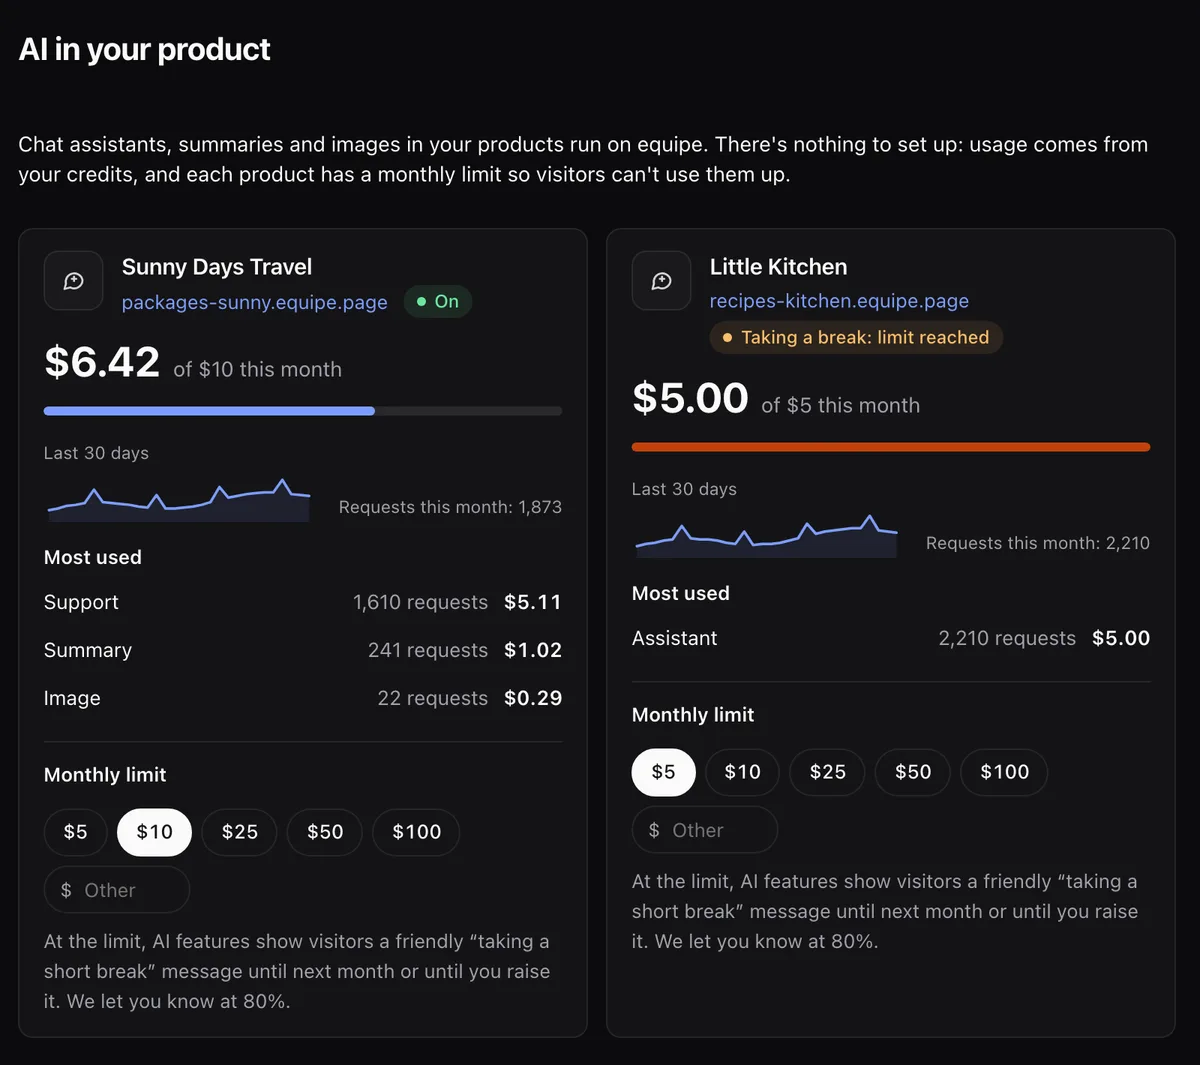
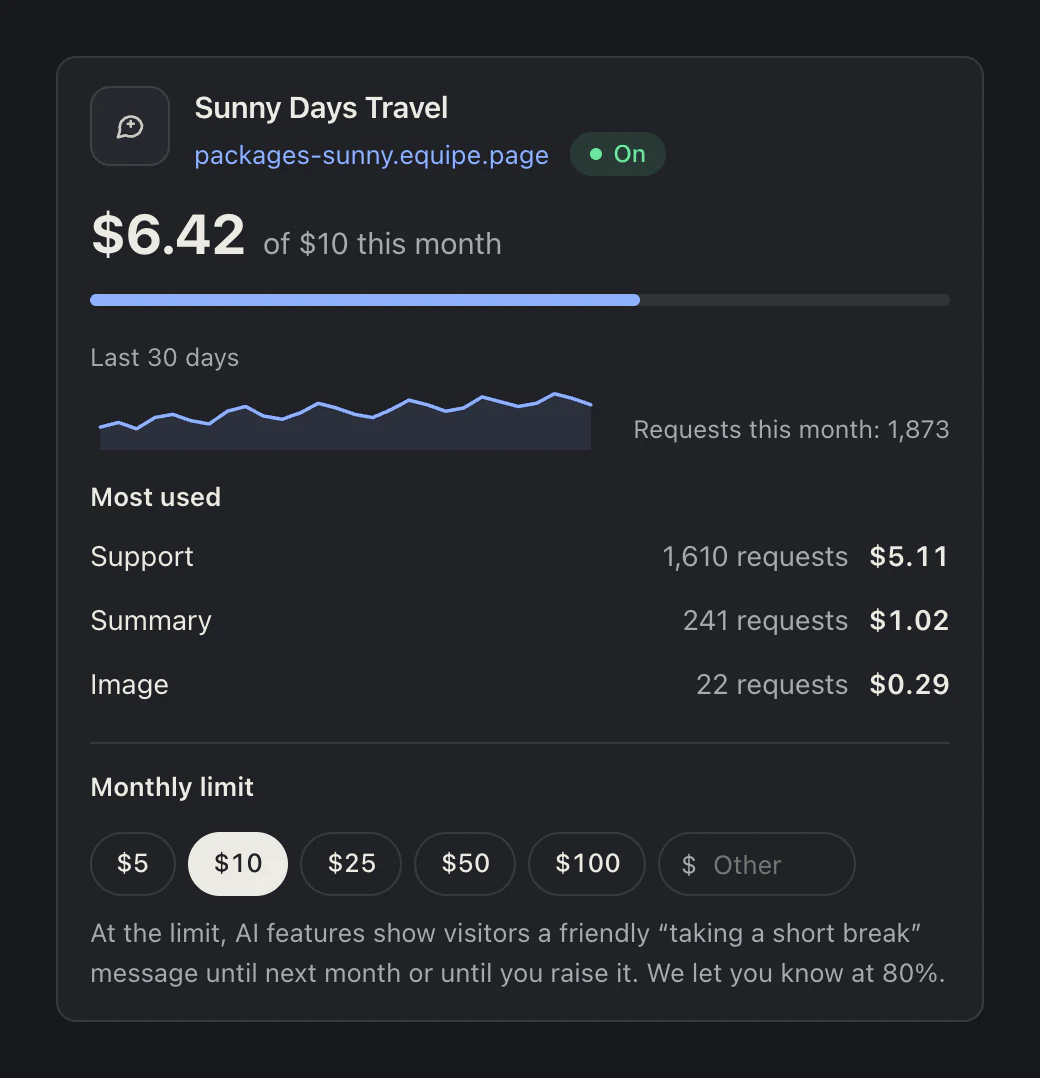
AI features page: crisp, product-accurate pictures. The chat widget re-rendered from its own styles (whole page in frame, no cut-off title; a phone version showing just the open chat), the AI panel rendered from the real team screen code with sample numbers (one product, current light and dark palet

diff --git a/src/data/productai.ts b/src/data/productai.ts
@@ -134,7 +134,7 @@ export const AI_COPY: Record<LocaleCode, AiCopy> = {
         { title: 'One place to look', text: 'Product › AI shows each feature with a small live demo and a rough monthly cost, then what each product spent, a 30-day trend and the most used features.' },
       ],
       models: 'Your team picks the model for each job automatically: a fast, inexpensive one for chat and short summaries, and a stronger one only when the job needs it.',
-      panelAlt: 'The AI panel in equipe: two products with their spending this month against their limits, a 30-day trend, the most used features and the monthly limit choices',
+      panelAlt: 'The AI panel in equipe for one product: what it spent this month against its limit, a 30-day trend, the most used features and the monthly limit choices',
       panelCaption: 'Product › AI in your product, with sample numbers.',
     },
     security: {
@@ -243,7 +243,7 @@ export const AI_COPY: Record<LocaleCode, AiCopy> = {
         { title: '한곳에서 확인해요', text: '제품 › 제품 속 AI에서 기능마다 작은 실시간 데모와 대략적인 월 비용을 보여 주고, 이어서 제품별 사용액, 30일 추이, 많이 쓰인 기능을 보여 줘요.' },
       ],
       models: '팀이 일마다 모델을 자동으로 골라요. 채팅과 짧은 요약에는 빠르고 저렴한 모델을, 꼭 필요할 때만 더 강한 모델을 써요.',
-      panelAlt: 'equipe의 AI 패널: 두 제품의 이번 달 사용액과 한도, 30일 추이, 많이 쓰인 기능, 월 한도 선택지',
+      panelAlt: 'equipe의 AI 패널: 한 제품의 이번 달 사용액과 한도, 30일 추이, 많이 쓰인 기능, 월 한도 선택지',
       panelCaption: '제품 › 제품 속 AI 화면이에요. 숫자는 예시예요.',
     },
     security: {
@@ -352,7 +352,7 @@ export const AI_COPY: Record<LocaleCode, AiCopy> = {
         { title: '確認はひとつの場所で', text: 'プロダクト › プロダクトのAIでは、各機能を小さなライブデモとおおよその月額で表示し、続いてプロダクトごとの利用額、30日間の推移、よく使われている機能を表示します。' },
       ],
       models: 'チームは仕事ごとにモデルを自動で選びます。チャットや短い要約には速くて安価なモデルを、必要なときだけより強力なモデルを使います。',
-      panelAlt: 'equipeのAIパネル：2つのプロダクトの今月の利用額と上限、30日間の推移、よく使われている機能、月の上限の選択肢',
+      panelAlt: 'equipeのAIパネル：1つのプロダクトの今月の利用額と上限、30日間の推移、よく使われている機能、月の上限の選択肢',
       panelCaption: 'プロダクト › プロダクトのAI（数字はサンプルです）。',
     },
     security: {
@@ -461,7 +461,7 @@ export const AI_COPY: Record<LocaleCode, AiCopy> = {
         { title: '一处查看', text: '在“产品 › 产品中的 AI”里，每个功能都有一个小型实时演示和大致的月费用，下面是每个产品的花费、30 天趋势和最常用的功能。' },
       ],
       models: '团队会为每项工作自动选择模型：聊天和简短摘要用快速、便宜的模型，只有工作需要时才用更强的模型。',
-      panelAlt: 'equipe 的 AI 面板：两个产品本月的花费与上限、30 天趋势、最常用的功能和每月上限选项',
+      panelAlt: 'equipe 的 AI 面板：一个产品本月的花费与上限、30 天趋势、最常用的功能和每月上限选项',
       panelCaption: '产品 › 产品中的 AI，数字为示例。',
     },
     security: {
@@ -570,7 +570,7 @@ export const AI_COPY: Record<LocaleCode, AiCopy> = {
         { title: 'Todo en un solo lugar', text: 'Producto › IA en tu producto muestra cada función con una pequeña demo en vivo y un costo mensual aproximado, y luego lo que gastó cada producto, la tendencia de 30 días y las funciones más usadas.' },
       ],
       models: 'Tu equipo elige automáticamente el modelo para cada tarea: uno rápido y económico para el chat y los resúmenes cortos, y uno más potente solo cuando la tarea lo necesita.',
-      panelAlt: 'El panel de IA en equipe: dos productos con su gasto de este mes frente a sus límites, una tendencia de 30 días, las funciones más usadas y las opciones de límite mensual',
+      panelAlt: 'El panel de IA en equipe para un producto: su gasto de este mes frente a su límite, una tendencia de 30 días, las funciones más usadas y las opciones de límite mensual',
       panelCaption: 'Producto › IA en tu producto, con cifras de ejemplo.',
     },
     security: {
@@ -679,7 +679,7 @@ export const AI_COPY: Record<LocaleCode, AiCopy> = {
         { title: 'Tudo num só lugar', text: 'Produto › IA no seu produto mostra cada recurso com uma pequena demonstração ao vivo e um custo mensal aproximado, depois quanto cada produto gastou, a tendência de 30 dias e os recursos mais usados.' },
       ],
       models: 'Seu time escolhe automaticamente o modelo de cada tarefa: um rápido e barato para chat e resumos curtos, e um mais forte só quando a tarefa pede.',
-      panelAlt: 'O painel de IA no equipe: dois produtos com o gasto deste mês em relação aos limites, uma tendência de 30 dias, os recursos mais usados e as opções de limite mensal',
+      panelAlt: 'O painel de IA no equipe para um produto: o gasto deste mês em relação ao limite, uma tendência de 30 dias, os recursos mais usados e as opções de limite mensal',
       panelCaption: 'Produto › IA no seu produto, com números de exemplo.',
     },
     security: {
@@ -788,7 +788,7 @@ export const AI_COPY: Record<LocaleCode, AiCopy> = {
         { title: 'Alles an einem Ort', text: 'Produkt › KI in deinem Produkt zeigt jede Funktion mit einer kleinen Live-Demo und groben Monatskosten, dann, was jedes Produkt ausgegeben hat, einen 30-Tage-Verlauf und die meistgenutzten Funktionen.' },
       ],
       models: 'Dein Team wählt das Modell für jede Aufgabe automatisch: ein schnelles, günstiges für Chat und kurze Zusammenfassungen und ein stärkeres nur, wenn die Aufgabe es braucht.',
-      panelAlt: 'Das KI-Panel in equipe: zwei Produkte mit ihren Ausgaben in diesem Monat im Vergleich zum Limit, ein 30-Tage-Verlauf, die meistgenutzten Funktionen und die Auswahl für das Monatslimit',
+      panelAlt: 'Das KI-Panel in equipe für ein Produkt: die Ausgaben in diesem Monat im Vergleich zum Limit, ein 30-Tage-Verlauf, die meistgenutzten Funktionen und die Auswahl für das Monatslimit',
       panelCaption: 'Produkt › KI in deinem Produkt, mit Beispielzahlen.',
     },
     security: {
@@ -897,7 +897,7 @@ export const AI_COPY: Record<LocaleCode, AiCopy> = {
         { title: 'Tout au même endroit', text: 'Produit › L’IA dans votre produit montre chaque fonction avec une petite démo en direct et un coût mensuel approximatif, puis les dépenses de chaque produit, la tendance sur 30 jours et les fonctions les plus utilisées.' },
       ],
       models: 'Votre équipe choisit automatiquement le modèle pour chaque tâche : un modèle rapide et économique pour le chat et les résumés courts, et un plus puissant seulement quand la tâche l’exige.',
-      panelAlt: 'Le panneau IA dans equipe : deux produits avec leurs dépenses du mois face à leurs limites, une tendance sur 30 jours, les fonctions les plus utilisées et les choix de limite mensuelle',
+      panelAlt: 'Le panneau IA dans equipe pour un produit : ses dépenses du mois face à sa limite, une tendance sur 30 jours, les fonctions les plus utilisées et les choix de limite mensuelle',
       panelCaption: 'Produit › L’IA dans votre produit, avec des chiffres d’exemple.',
     },
     security: {

diff --git a/src/styles/ai.css b/src/styles/ai.css
@@ -65,12 +65,23 @@ main.pg .ai-feats, main.pg .ai-how, main.pg .ai-price, main.pg .ai-sec { padding
 .v-reviews li::before { content: ''; position: absolute; left: 1px; top: 0.55em; width: 5px; height: 5px; border-radius: 50%; background: var(--accent); }
 .v-describe .out, .v-reply .draft { padding: 9px 11px; border-radius: 10px; background: var(--surface); border: 1px solid var(--line); }
 .ai-vis .use { align-self: flex-end; padding: 4px 12px; border-radius: 999px; background: var(--accent); color: var(--on-accent); font-size: 12px; font-weight: 600; }
-.v-image .pic { position: relative; height: 66px; border-radius: 10px; overflow: hidden; background: linear-gradient(160deg, color-mix(in srgb, var(--accent) 22%, var(--surface)) 0%, color-mix(in srgb, var(--accent) 8%, var(--surface)) 55%, color-mix(in srgb, var(--text) 16%, var(--surface)) 56%, color-mix(in srgb, var(--text) 10%, var(--surface)) 100%); border: 1px solid var(--line); }
-.v-image .cup { position: absolute; left: 50%; bottom: 12px; width: 34px; height: 24px; margin-left: -17px; border-radius: 3px 3px 12px 12px; background: var(--surface); box-shadow: 0 0 0 1px var(--line); }
-.v-image .cup::after { content: ''; position: absolute; right: -9px; top: 4px; width: 9px; height: 11px; border: 2px solid var(--surface); border-left: 0; border-radius: 0 7px 7px 0; }
-.v-image .steam { position: absolute; left: 50%; bottom: 40px; width: 12px; height: 14px; margin-left: -6px; border-left: 2px solid color-mix(in srgb, var(--surface) 80%, transparent); border-radius: 50%; }
-.v-image .use { position: absolute; right: 16px; bottom: 16px; }
-.v-image .pic { margin-bottom: 26px; }
+.v-image .pic { display: block; width: 100%; height: 96px; flex: none; fill: none; stroke: none; border-radius: 10px; border: 1px solid var(--line); --p-wall1: #E9EEF8; --p-wall2: #F7F4EF; --p-light: #FFFFFF; --p-table: #DCD3C8; --p-grain: #CFC5B8; --p-cup: #FFFFFF; --p-coffee: #B99A7C; --p-foam: #F3E9DD; --p-shadow: #0A0A0C14; --p-edge: #0A0A0C1F; }
+:root[data-theme='dark'] .v-image .pic { --p-wall1: #2A3040; --p-wall2: #262422; --p-light: #3A4255; --p-table: #47403A; --p-grain: #3D3732; --p-cup: #ECEAE4; --p-coffee: #8C6F55; --p-foam: #D9CBBB; --p-shadow: #00000059; --p-edge: #FFFFFF1F; }
+@media (prefers-color-scheme: dark) { :root:not([data-theme]) .v-image .pic { --p-wall1: #2A3040; --p-wall2: #262422; --p-light: #3A4255; --p-table: #47403A; --p-grain: #3D3732; --p-cup: #ECEAE4; --p-coffee: #8C6F55; --p-foam: #D9CBBB; --p-shadow: #00000059; --p-edge: #FFFFFF1F; } }
+.v-image .p-wall1 { stop-color: var(--p-wall1); } .v-image .p-wall2 { stop-color: var(--p-wall2); } .v-image .p-light { stop-color: var(--p-light); stop-opacity: .9; } .v-image .p-light0 { stop-color: var(--p-light); stop-opacity: 0; }
+.v-image .p-table { fill: var(--p-table); } .v-image .p-grain { fill: none; stroke: var(--p-grain); stroke-width: 1.2; } .v-image .p-shadow { fill: var(--p-shadow); }
+.v-image .p-saucer, .v-image .p-cup { fill: var(--p-cup); stroke: var(--p-edge); stroke-width: 1; } .v-image .p-handle { fill: none; stroke: var(--p-cup); stroke-width: 5; stroke-linecap: round; }
+.v-image .p-coffee { fill: var(--p-coffee); } .v-image .p-foam { fill: var(--p-foam); } .v-image .p-steam { fill: none; stroke: var(--p-cup); stroke-width: 2.2; stroke-linecap: round; opacity: .75; }
+.v-image .use { position: absolute; right: 24px; bottom: 24px; box-shadow: 0 2px 8px rgb(10 10 12 / 0.18); }
+.v-leads .inbox { display: grid; gap: 6px; }
+.v-leads .row { padding: 9px 11px; border-radius: 10px; background: var(--surface); border: 1px solid var(--line); }
+.v-leads .row.hot { border-color: color-mix(in srgb, var(--accent) 40%, var(--line)); }
+.v-leads .msg { overflow: hidden; text-overflow: ellipsis; white-space: nowrap; }
+.v-leads .tagrow { margin-top: 6px !important; }
+.v-leads .row.ghost { display: flex; align-items: center; gap: 10px; height: 30px; padding: 0 11px; opacity: .7; }
+.v-leads .row.ghost i { display: block; height: 7px; border-radius: 99px; background: color-mix(in srgb, var(--text) 10%, transparent); }
+.v-leads .row.ghost i:first-child { flex: 1; max-width: 62%; } .v-leads .row.ghost i:last-child { width: 38px; margin-left: auto; }
+.v-leads .row.ghost + .row.ghost i:first-child { max-width: 48%; }
 .v-leads .tagrow { display: flex; align-items: center; gap: 9px; font-size: 12.5px; color: var(--muted); }
 .v-leads .tag { padding: 3px 11px; border-radius: 999px; background: var(--accent); color: var(--on-accent); font-weight: 600; font-size: 12px; }
 .v-moderation ul { display: grid; gap: 6px; }
@@ -97,6 +108,8 @@ main.pg .ai-feats, main.pg .ai-how, main.pg .ai-price, main.pg .ai-sec { padding
 .ai-shot .th-dark { display: none; }
 :root[data-theme='dark'] .ai-shot .th-dark { display: block; }
 :root[data-theme='dark'] .ai-shot .th-light { display: none; }
+@media (prefers-color-scheme: dark) { :root:not([data-theme]) .ai-shot .th-dark { display: block; } :root:not([data-theme]) .ai-shot .th-light { display: none; } }
+.ai-shot picture img { display: block; width: 100%; height: auto; }
 .ai-shot figcaption { margin-top: 14px; font-size: 14px; line-height: 1.5; color: var(--muted); }
 
 /* Pricing */

diff --git a/src/content/blog/ko/add-ai-to-your-product-no-api-keys.md b/src/content/blog/ko/add-ai-to-your-product-no-api-keys.md
@@ -34,7 +34,7 @@ equipe에서는 이 과정을 모두 건너뛰어요.
 3. **페이지에 채팅을 넣어요.** 떠 있는 채팅 버튼이나 채팅 전용 페이지로요. 제품 디자인에 맞춰, 라이트·다크 모드 모두, 방문자의 언어로요. 답변은 써지는 대로 바로 보여요.
 4. **실제 질문으로 테스트하고 보여 줘요.**
 
-<figure><picture><img class="th-light" src="/screens/ai/widget-light.webp" width="1200" height="1108" loading="lazy" alt="데모 여행사 사이트에 들어간 기본 채팅 위젯이 예약 취소에 대한 질문에 답하는 모습" /><img class="th-dark" src="/screens/ai/widget-dark.webp" width="1200" height="1108" loading="lazy" alt="" aria-hidden="true" /></picture><figcaption>Sunny Days Travel에 들어간 기본 채팅 위젯이에요. 여행사는 데모용으로 지어낸 곳이고, 답변은 실제 서비스에서 나왔어요.</figcaption></figure>
+<figure><picture><img class="th-light" src="/screens/ai/widget-light.webp" width="1520" height="1120" loading="lazy" alt="데모 여행사 사이트에 들어간 기본 채팅 위젯이 예약 취소에 대한 질문에 답하는 모습" /><img class="th-dark" src="/screens/ai/widget-dark.webp" width="1520" height="1120" loading="lazy" alt="" aria-hidden="true" /></picture><figcaption>Sunny Days Travel에 들어간 기본 채팅 위젯이에요. 여행사는 데모용으로 지어낸 곳이고, 답변은 실제 서비스에서 나왔어요.</figcaption></figure>
 
 ## 넣을 수 있는 기능
 
@@ -55,7 +55,7 @@ equipe에서는 이 과정을 모두 건너뛰어요.
 - **방문자별 한도.** 한 사람이나 스크립트 하나가 1분에 메시지 수백 개를 보낼 수 없어요.
 - **한곳에서 확인.** AI 패널에서 제품마다 이번 달 사용액과 한도, 30일 추이, 들어온 요청 수, 가장 많이 쓰인 기능을 보여 줘요. 모델 이름 없이 쉬운 말로요.
 
-<figure><picture><img class="th-light" src="/screens/ai/panel-light.webp" width="1200" height="1065" loading="lazy" alt="equipe의 AI 패널: 두 제품의 이번 달 사용액과 한도, 30일 추이, 많이 쓰인 기능, 월 한도 선택지" /><img class="th-dark" src="/screens/ai/panel-dark.webp" width="1200" height="1065" loading="lazy" alt="" aria-hidden="true" /></picture><figcaption>제품 › 제품 속 AI 화면이에요. 숫자는 예시예요.</figcaption></figure>
+<figure><picture><img class="th-light" src="/screens/ai/panel-light.webp" width="1040" height="1078" loading="lazy" alt="equipe의 AI 패널: 한 제품의 이번 달 사용액과 한도, 30일 추이, 많이 쓰인 기능, 월 한도 선택지" /><img class="th-dark" src="/screens/ai/panel-dark.webp" width="1040" height="1078" loading="lazy" alt="" aria-hidden="true" /></picture><figcaption>제품 › 제품 속 AI 화면이에요. 숫자는 예시예요.</figcaption></figure>
 
 ## 비용
 

diff --git a/src/content/blog/en/add-ai-to-your-product-no-api-keys.md b/src/content/blog/en/add-ai-to-your-product-no-api-keys.md
@@ -33,7 +33,7 @@ You write something like "add a chatbot that answers questions about my packages
 3. **They add the chat to your pages.** A floating chat button, or a full page for it, in your product's look, light and dark, in your visitors' language. Replies appear as they are written.
 4. **They test it with real questions and show you.**
 
-<figure><picture><img class="th-light" src="/screens/ai/widget-light.webp" width="1200" height="1108" loading="lazy" alt="The ready-made chat widget on a demo travel agency site, answering a question about cancelling a booking" /><img class="th-dark" src="/screens/ai/widget-dark.webp" width="1200" height="1108" loading="lazy" alt="" aria-hidden="true" /></picture><figcaption>The ready-made chat widget on Sunny Days Travel. The travel agency is made up for the demo; the answers came from the live service.</figcaption></figure>
+<figure><picture><img class="th-light" src="/screens/ai/widget-light.webp" width="1520" height="1120" loading="lazy" alt="The ready-made chat widget on a demo travel agency site, answering a question about cancelling a booking" /><img class="th-dark" src="/screens/ai/widget-dark.webp" width="1520" height="1120" loading="lazy" alt="" aria-hidden="true" /></picture><figcaption>The ready-made chat widget on Sunny Days Travel. The travel agency is made up for the demo; the answers came from the live service.</figcaption></figure>
 
 ## What you can add
 
@@ -54,7 +54,7 @@ Your product's visitors use the AI and your team pays, so the protection is buil
 - **Limits per visitor.** One person, or one script, can't send hundreds of messages a minute.
 - **One place to look.** The AI panel shows what each product spent this month against its limit, a 30-day trend, how many requests came in and which features are used most. In plain words, no model names.
 
-<figure><picture><img class="th-light" src="/screens/ai/panel-light.webp" width="1200" height="1065" loading="lazy" alt="The AI panel in equipe: two products with what they spent this month against their limits, a 30-day trend, the most used features and the monthly limit choices" /><img class="th-dark" src="/screens/ai/panel-dark.webp" width="1200" height="1065" loading="lazy" alt="" aria-hidden="true" /></picture><figcaption>Product › AI in your product, with sample numbers.</figcaption></figure>
+<figure><picture><img class="th-light" src="/screens/ai/panel-light.webp" width="1040" height="1078" loading="lazy" alt="The AI panel in equipe for one product: what it spent this month against its limit, a 30-day trend, the most used features and the monthly limit choices" /><img class="th-dark" src="/screens/ai/panel-dark.webp" width="1040" height="1078" loading="lazy" alt="" aria-hidden="true" /></picture><figcaption>Product › AI in your product, with sample numbers.</figcaption></figure>
 
 ## What it costs
 
